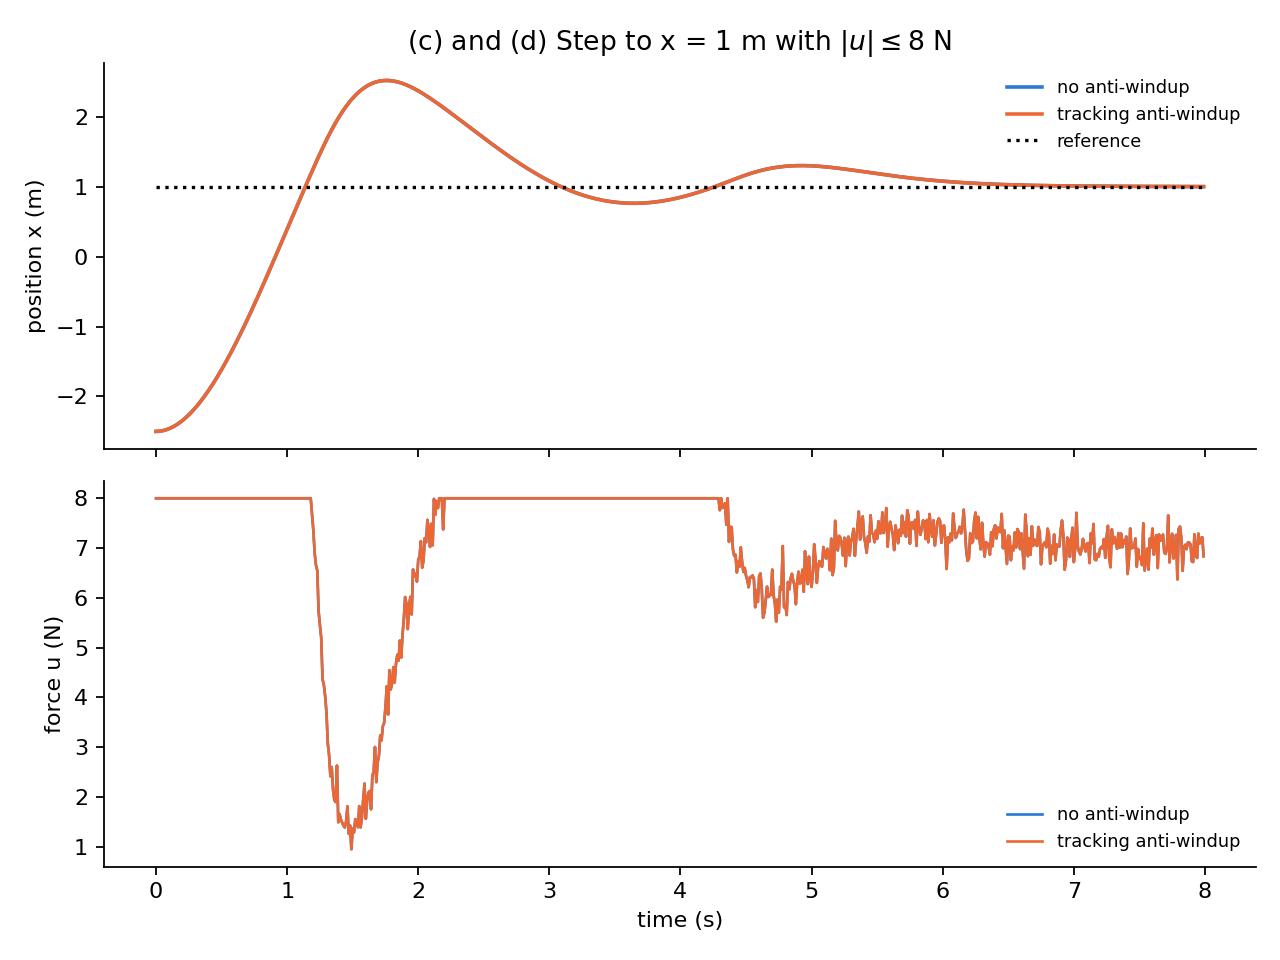
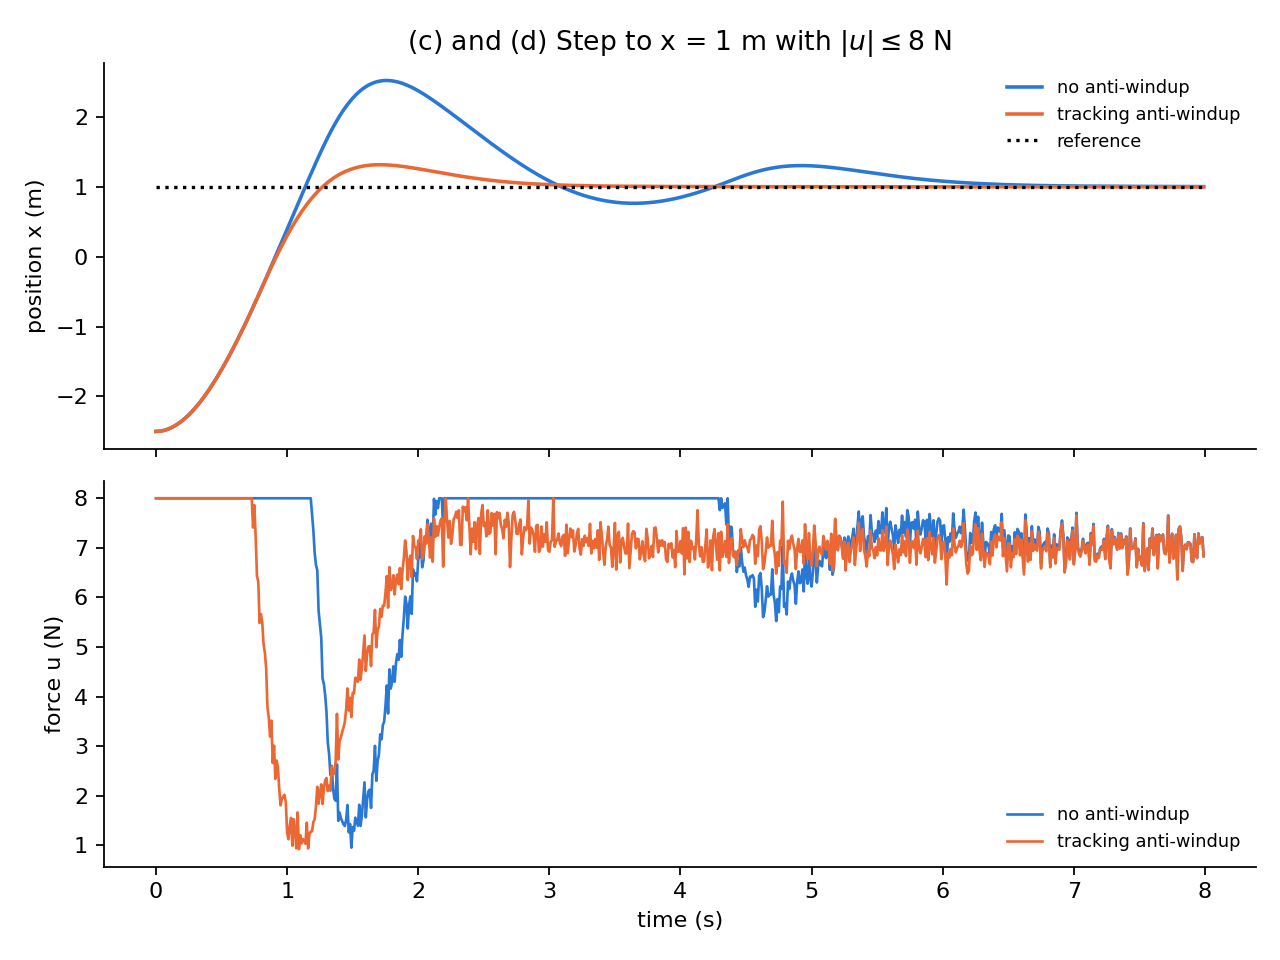
finished code for hw9

diff --git a/hw9/pid.py b/hw9/pid.py
@@ -92,12 +92,11 @@ class PIDController:
         self.I = 0.0
         self.x_prev = None
         if anti_windup:
-            self.Td = self.kd / self.kp
-            self.Ti = self.kp / self.ki
-            self.T_t = np.sqrt(self.Td * self.Ti)
+            if T_t is None:
+                self.Td = self.kd / self.kp
+                self.Ti = self.kp / self.ki
+                self.T_t = np.sqrt(self.Td * self.Ti)
             self.kt = 1 / self.T_t
-            edot_integrated = e + (self.kt / self.ki) * (u_sat - u_unsat)
-            # Need to define e, u_sat, and u_unsat
 
     def update(self, x_meas, x_ref, xdot=None):
         """Compute and return one control force, then save controller state.
@@ -124,7 +123,7 @@ class PIDController:
         Hint: Use np.clip(value, lower_bound, upper_bound) to limit the force.
         """
         error = x_ref - x_meas
-        if xdot != None:
+        if xdot is not None:
             v = xdot
         else:
             if self.x_prev == None:
@@ -132,7 +131,7 @@ class PIDController:
             else:
                 v = finite_difference(x_meas, self.x_prev, self.dt)
 
-            if self.filter != None:
+            if self.filter is not None:
                 v = self.filter.update(v)
 
         self.x_prev = x_meas
